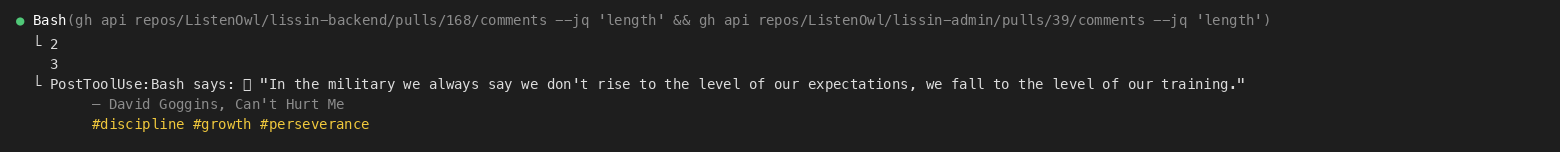
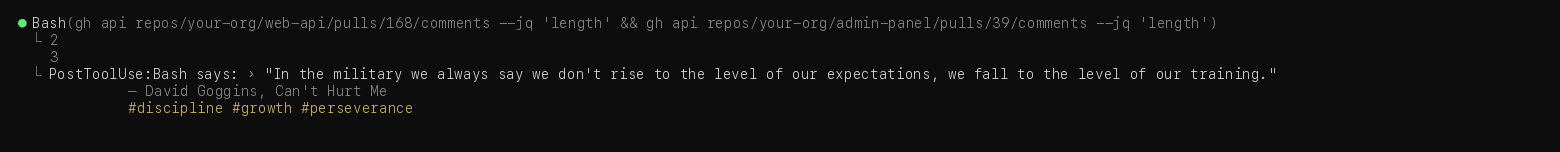
docs: refresh README + screenshots + launcher tweaks + gitignore
Updates the README About section to highlight the Claude Code and
Codex hooks alongside the six games, and adds a Topics line for
GitHub repo discoverability.

Refreshes the Dino Run, Star Blast, and Claude-Code-hook screenshots:
- Dino Run: shows actual gameplay (Tyrant Rex in Scrub Desert biome
  with three obstacles + ROAR meter) instead of the title screen.
- Star Blast: shows the new pixel-art ship UI with color HUD,
  asteroids, flying enemy, and bullet trails.
- Ambient quote hook: regenerated with placeholder org names so the
  example doesn't leak private project paths.

Extends .gitignore to cover IDE/agent config dirs (.agents, .amazonq,
.claude, .codex, .cursor, .gemini, .opencode, .superplan, .idea,
.vscode), .DS_Store, and the .pytest_cache/htmlcov caches.

Tightens launcher startup behavior and the corresponding test_arcade
coverage.

diff --git a/terminal_arcade/launcher.py b/terminal_arcade/launcher.py
@@ -133,18 +133,18 @@ def build_entries() -> list[ArcadeEntry]:
             id="chess",
             title="Chess",
             subtitle="Rule-based strategy duel",
-            blurb="Play White against a built-in engine with easy, medium, and hard search levels plus typed move input.",
-            controls="Type moves like e2e4  |  undo / new / resign  |  Enter submit  |  Q quit",
-            min_size=(84, 28),
+            blurb="Play White against a built-in engine on a full-screen pixel board with denser piece sprites and legal-move hints.",
+            controls="Arrows or hjkl move cursor  |  Space/Enter select  |  X cancel  |  undo/new/resign",
+            min_size=(108, 48),
             launch=launch_chess,
         ),
         ArcadeEntry(
             id="star_blast",
             title="Star Blast",
-            subtitle="Nokia-style space shooter",
-            blurb="Pilot a larger starship through a tighter vertical arena and blast descending waves in campaign or endless mode.",
+            subtitle="Large-sprite space shooter",
+            blurb="Pilot a full-size terminal starship through asteroid fields, enemy craft, turret platforms, and carrier bosses.",
             controls="LEFT or A strafe  |  RIGHT or D strafe  |  HOLD SPACE fire  |  F autofire  |  Q quit",
-            min_size=(72, 24),
+            min_size=(96, 34),
             launch=launch_star_blast,
         ),
         ArcadeEntry(

diff --git a/tests/test_arcade.py b/tests/test_arcade.py
@@ -12,7 +12,7 @@ class ArcadeLauncherTests(unittest.TestCase):
 
         self.assertEqual(["dino", "snake", "tetris", "chess", "star_blast", "bookshelf"], [entry.id for entry in entries])
         self.assertEqual(["Dino Run", "Snake", "Tetris", "Chess", "Star Blast", "Bookshelf"], [entry.title for entry in entries])
-        self.assertEqual([(70, 20), (50, 20), (72, 26), (84, 28), (72, 24), (80, 24)], [entry.min_size for entry in entries])
+        self.assertEqual([(70, 20), (50, 20), (72, 26), (108, 48), (96, 34), (80, 24)], [entry.min_size for entry in entries])
         self.assertTrue(all(callable(entry.launch) for entry in entries))
 
     def test_move_selection_wraps_in_both_directions(self) -> None:

diff --git a/README.md b/README.md
@@ -1,6 +1,8 @@
 # Terminal Arcade
 
-A collection of terminal-based games and apps built with Python and curses, wrapped in a retro arcade launcher.
+A retro arcade for your terminal — pure Python, zero dependencies, curses-based. Six fully-playable games and an interactive bookshelf, all behind a single launcher. Plus drop-in **Claude Code** and **Codex** hooks that surface a curated book quote after every tool call.
+
+**Topics:** `python` · `terminal` · `curses` · `arcade` · `retro-games` · `cli` · `claude-code` · `codex` · `agent-hooks` · `bookshelf` · `zero-dependencies`
 
 ![Arcade Launcher](assets/screenshots/arcade_launcher.png)
 
@@ -10,7 +12,7 @@ A collection of terminal-based games and apps built with Python and curses, wrap
 
 An endless runner with 10 selectable dinosaurs, 3 rotating biomes, a charge-based roar mechanic, and retro audio.
 
-![Dino Run — Title Screen](assets/screenshots/dino_title.png)
+![Dino Run — Gameplay](assets/screenshots/dino_gameplay.png)
 
 [Read more →](dino_game/README.md)
 
@@ -32,13 +34,13 @@ Classic endless block stacking with standard wall kicks, one next-piece preview,
 
 ### Chess
 
-Play White against a built-in rule-based engine with easy, medium, and hard difficulty levels plus typed move input.
+Play White against a built-in rule-based engine on a full-screen pixel-art board with easy, medium, and hard difficulty levels.
 
 [Read more →](chess_game/README.md)
 
 ### Star Blast
 
-A faithful Nokia-style space shooter with a 3-stage campaign, endless survival mode, and a compact retro HUD.
+A large-sprite terminal space shooter with a full-size ship, asteroid obstacles, enemy craft, carrier bosses, punchier blast/impact effects, CC0 sci-fi SFX, campaign stages, and endless survival.
 
 ![Star Blast — Gameplay](assets/screenshots/star_blast_gameplay.png)
 
@@ -109,43 +111,33 @@ py -m bookshelf
 
 ## Run
 
+The module form (`python3 -m ...`) always works after `pip install -e .`. The short script names (`arcade`, `dino-run`, etc.) only work if the user script directory is on your `PATH` — see the install notes above if `command not found`.
+
 ```bash
-# Full arcade launcher
-arcade
-# or: python3 -m terminal_arcade
-# or on Windows: py -m terminal_arcade
+# Full arcade launcher (recommended — always works)
+python3 -m terminal_arcade
+# or, if user scripts are on PATH: arcade
+# Windows: py -m terminal_arcade
 
 # Direct shortcuts
 
 # Dino Run
-dino-run
-# or: python3 -m dino_game
-# or on Windows: py -m dino_game
+python3 -m dino_game        # or: dino-run        # Windows: py -m dino_game
 
 # Snake
-snake-game
-# or: python3 -m snake_game
-# or on Windows: py -m snake_game
+python3 -m snake_game       # or: snake-game      # Windows: py -m snake_game
 
 # Tetris
-tetris
-# or: python3 -m tetris_game
-# or on Windows: py -m tetris_game
+python3 -m tetris_game      # or: tetris          # Windows: py -m tetris_game
 
 # Chess
-chess-game
-# or: python3 -m chess_game
-# or on Windows: py -m chess_game
+python3 -m chess_game       # or: chess-game      # Windows: py -m chess_game
 
 # Star Blast
-star-blast
-# or: python3 -m star_blast
-# or on Windows: py -m star_blast
+python3 -m star_blast       # or: star-blast      # Windows: py -m star_blast
 
 # The Bookshelf
-bookshelf
-# or: python3 -m bookshelf
-# or on Windows: py -m bookshelf
+python3 -m bookshelf        # or: bookshelf       # Windows: py -m bookshelf
 ```
 
 ## Claude Code Ambient Quotes
@@ -265,6 +257,75 @@ You need to install the package. Run `pip install -e .` from the repo root.
 **Quotes aren't matching my context**
 - Make sure `context_matching` is `true` in your config file (it is by default)
 - Context matching reads the tool name and command — it works best with Bash, Read, and Edit calls
+
+## Codex Ambient Quotes
+
+A `notify` hook for [Codex](https://github.com/openai/codex) that delivers a book quote every 5 turns while you work.
+
+> Codex's `notify` only fires on `turn-ended` (once per assistant response, not per tool call) and does not render the hook's stdout in chat. So the Codex flavor surfaces quotes via macOS notification on every 5th turn. On Linux/Windows the quote is written to Codex's turn log via stderr.
+
+### Quick Start
+
+**Requirements:** Python 3.10+, [Codex](https://github.com/openai/codex), macOS for the notification surface (Linux/Windows fall back to log output)
+
+**Step 1.** Clone and install (skip if you already did this for the Claude hook):
+
+```bash
+git clone https://github.com/Amal-David/terminal-arcade.git
+cd terminal-arcade
+pip install -e .
+```
+
+**Step 2.** Open `~/.codex/config.toml` and add the `notify` line at the top level:
+
+```toml
+notify = ["python3", "/path/to/terminal-arcade/bookshelf/skill/codex_notify.py"]
+```
+
+If you **already have a `notify` line**, Codex only honors one entry — wrap both behind a tiny dispatcher script that calls each in turn, or pick whichever you need most.
+
+**Step 3.** Replace `/path/to/terminal-arcade` with the actual path where you cloned the repo.
+
+**Step 4.** Restart Codex. A book quote will pop as a macOS notification on every 5th turn.
+
+### Configuration
+
+The Codex hook reads the same config file as the Claude hook:
+
+| Platform | Config path |
+|----------|-------------|
+| macOS | `~/Library/Application Support/bookshelf/config.json` |
+| Linux | `~/.local/share/bookshelf/config.json` |
+| Windows | `%APPDATA%/bookshelf/config.json` |
+
+```json
+{
+  "codex_quote_cadence": 5
+}
+```
+
+| Setting | Default | Description |
+|---------|---------|-------------|
+| `codex_quote_cadence` | 5 | Show a quote every Nth Codex turn |
+
+The Codex counter (`codex_turn_count`) is tracked separately from Claude's tool-call counter, so the two hooks don't interfere if you run both.
+
+### How it works
+
+Codex calls the script with `turn-ended <json_payload>` after every assistant turn. The script ignores all other events, increments its own turn counter, and on every Nth turn picks a quote and surfaces it as a macOS notification (`osascript`). Quote selection reuses the same picker as the Claude hook — recently-shown quotes are deprioritized and the unseen pool is exhausted before repeats.
+
+### Troubleshooting
+
+**`ModuleNotFoundError: No module named 'bookshelf'`**
+Run `pip install -e .` from the repo root.
+
+**No notifications appearing**
+- Confirm `osascript -e 'display notification "test" with title "test"'` works in your terminal — Notification Center may need permission for your terminal app under System Settings → Notifications.
+- The hook fires every 5 turns by default — keep working, it'll show up.
+- Check that the path in `~/.codex/config.toml` points to the actual `codex_notify.py` location.
+
+**Notifications appear too often / not often enough**
+Bump `codex_quote_cadence`. Cadence counts Codex turns (one per assistant response), not individual tool calls.
 
 ## Test
 
